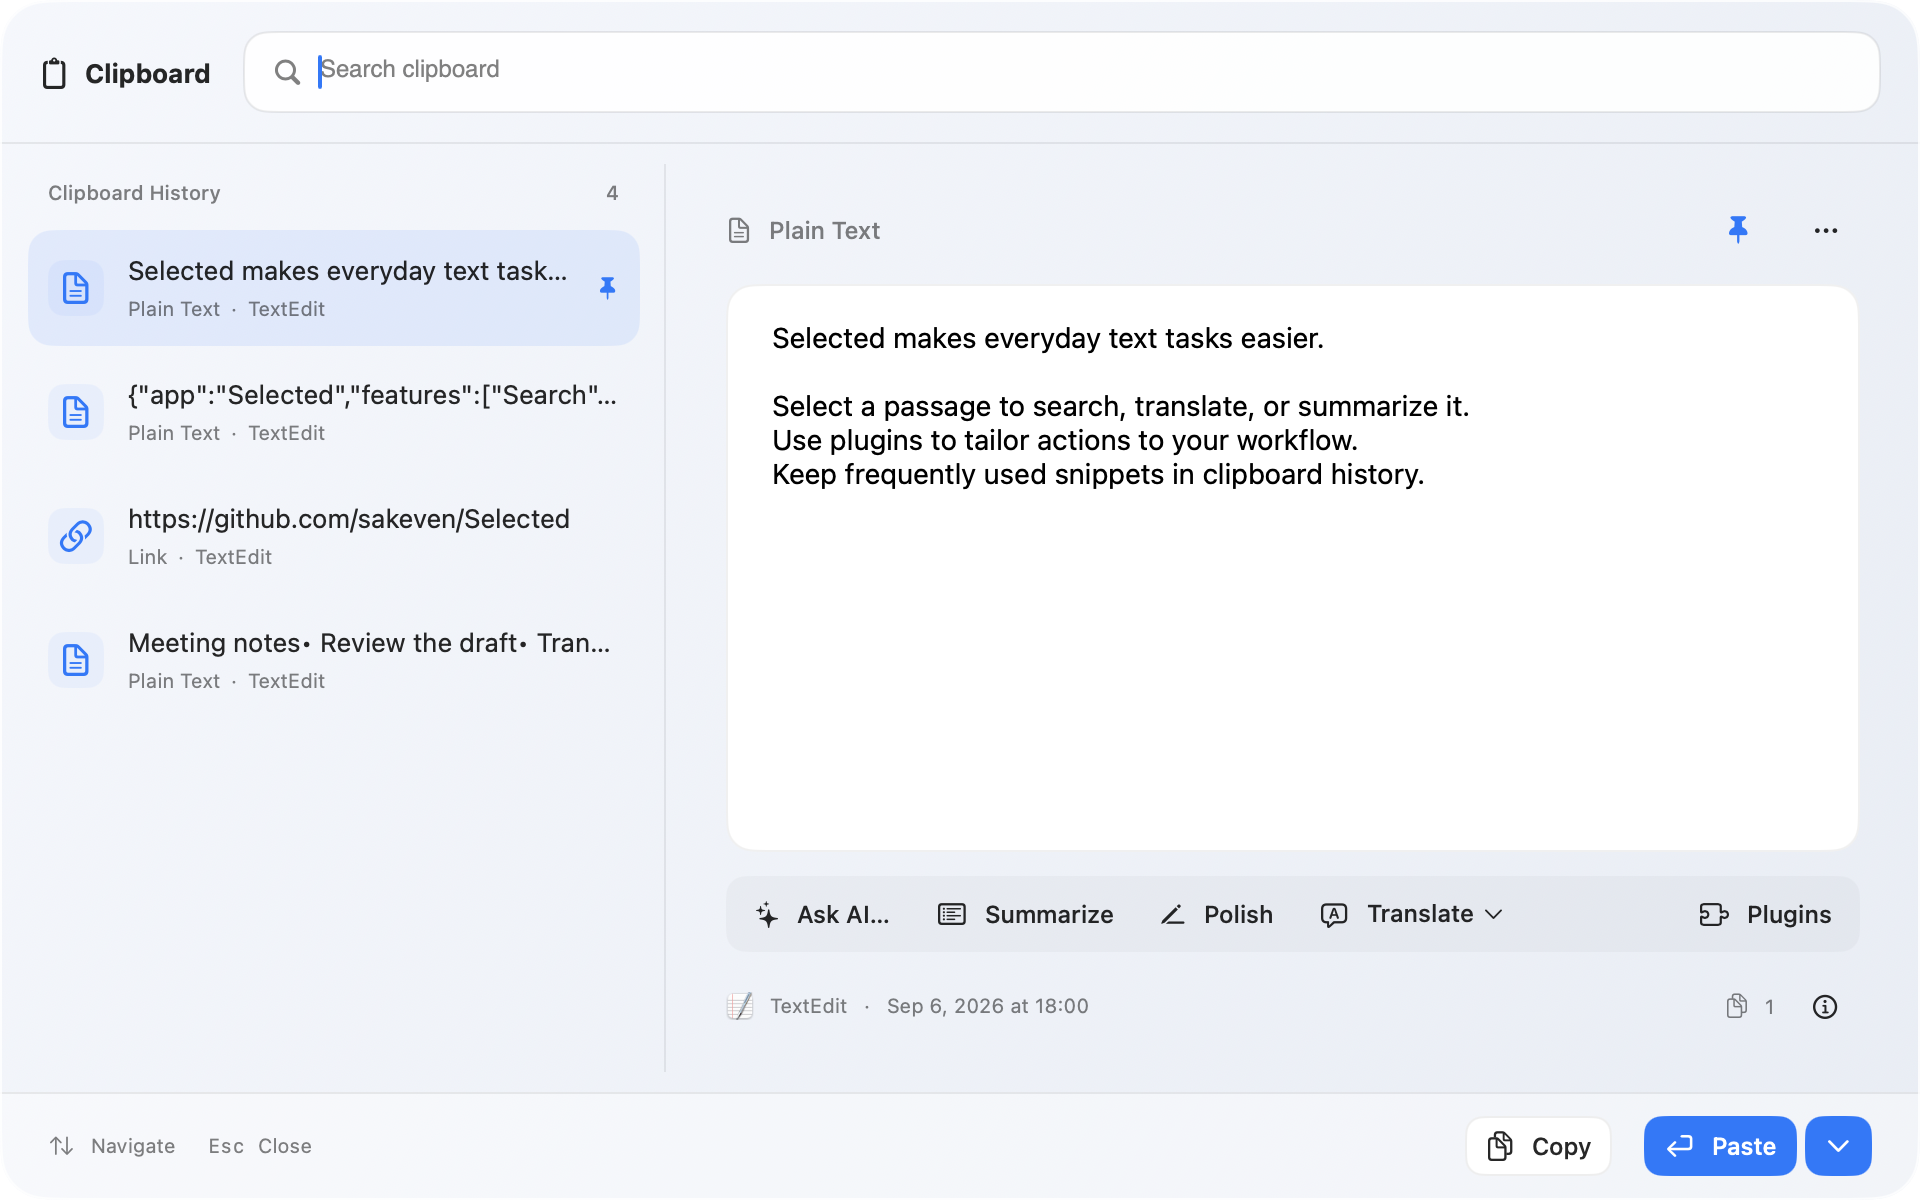
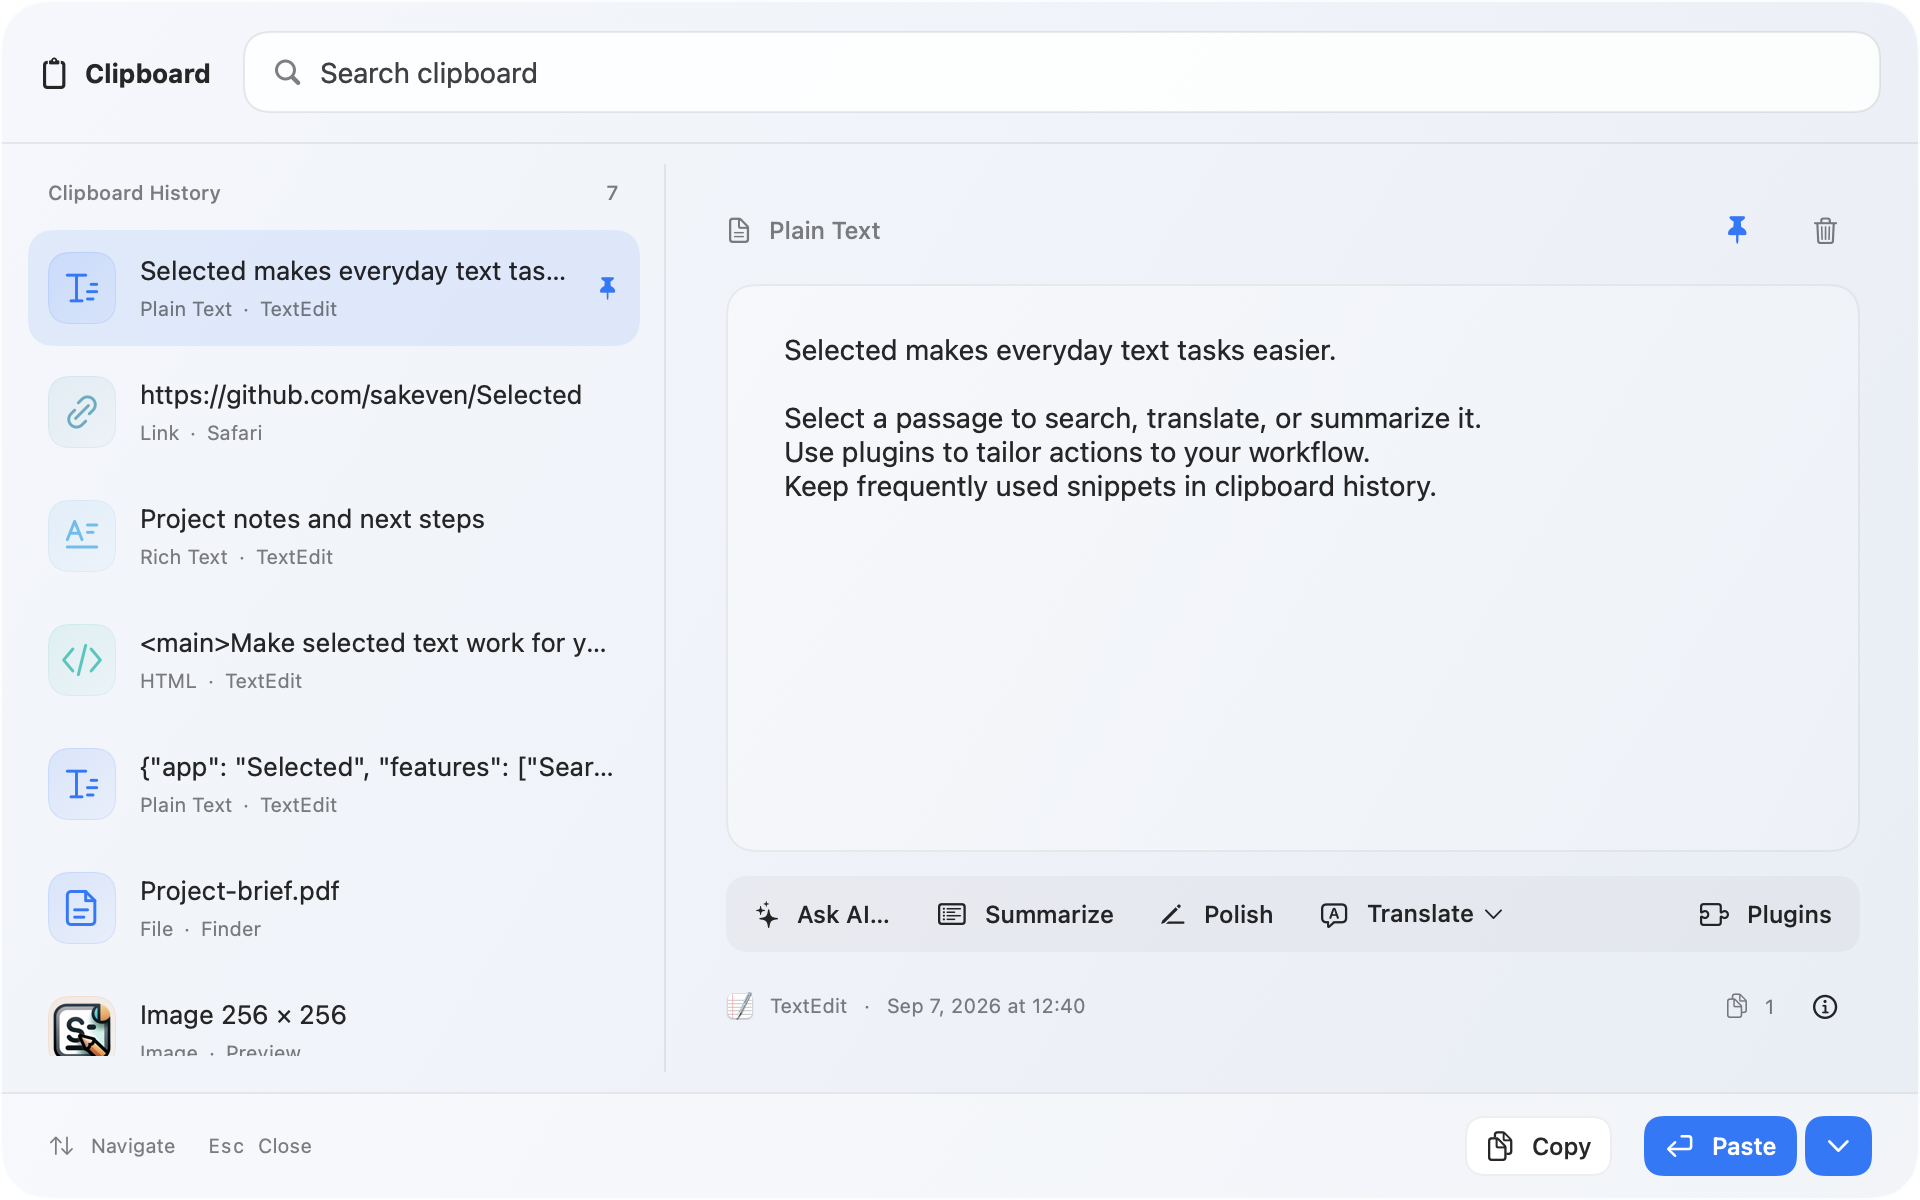
Polish clipboard previews and simplify actions

diff --git a/Selected/View/ClipView/ClipView.swift b/Selected/View/ClipView/ClipView.swift
@@ -64,9 +64,9 @@ private enum ClipDisplayKind {
         case .color: return .green
         case .file: return .blue
         case .image: return .orange
-        case .link: return .blue
+        case .link: return .teal
         case .text: return .blue
-        case .richText: return .purple
+        case .richText: return .cyan
         case .html: return .mint
         case .unknown: return .gray
         }
@@ -82,6 +82,18 @@ private enum ClipDisplayKind {
         case .richText: return "doc.richtext"
         case .html: return "circle.dashed.rectangle"
         case .unknown: return "doc"
+        }
+    }
+
+    var imageName: String {
+        switch self {
+        case .color: return "ClipboardColor"
+        case .file, .unknown: return "ClipboardFile"
+        case .image: return "ClipboardImage"
+        case .link: return "ClipboardLink"
+        case .text: return "ClipboardText"
+        case .richText: return "ClipboardRichText"
+        case .html: return "ClipboardHTML"
         }
     }
 }
@@ -109,8 +121,14 @@ private extension ColorScheme {
         self == .dark ? Color.white.opacity(0.035) : Color.white.opacity(0.7)
     }
 
-    var clipPreviewFill: Color {
-        Color(nsColor: .textBackgroundColor)
+    var clipPreviewFill: LinearGradient {
+        LinearGradient(
+            colors: self == .dark
+                ? [Color.white.opacity(0.055), Color.white.opacity(0.025)]
+                : [Color.white.opacity(0.36), Color.white.opacity(0.16)],
+            startPoint: .topLeading,
+            endPoint: .bottomTrailing
+        )
     }
 
     var clipSelectedFill: Color {
@@ -446,9 +464,16 @@ private struct ClipRowView: View {
 
     var body: some View {
         HStack(spacing: 12) {
-            RoundedRectangle(cornerRadius: 8)
-                .fill(clip.displayKind.tint.opacity(0.06))
-                .frame(width: 28, height: 28)
+            RoundedRectangle(cornerRadius: 10)
+                .fill(LinearGradient(
+                    colors: [
+                        clip.displayKind.tint.opacity(colorScheme == .dark ? 0.25 : 0.13),
+                        clip.displayKind.tint.opacity(colorScheme == .dark ? 0.12 : 0.05)
+                    ],
+                    startPoint: .topLeading,
+                    endPoint: .bottomTrailing
+                ))
+                .frame(width: 34, height: 36)
                 .overlay {
                     if clip.displayKind == .image,
                        let imageData = clip.primaryItem?.data,
@@ -456,15 +481,19 @@ private struct ClipRowView: View {
                         Image(nsImage: image)
                             .resizable()
                             .scaledToFill()
-                            .frame(width: 28, height: 28)
-                            .clipShape(RoundedRectangle(cornerRadius: 8))
+                            .frame(width: 34, height: 36)
+                            .clipShape(.rect(cornerRadius: 10))
                     } else if clip.displayKind == .color, let color = clip.colorValue {
-                        RoundedRectangle(cornerRadius: 8)
+                        RoundedRectangle(cornerRadius: 7)
                             .fill(Color(nsColor: color))
                             .padding(3)
                     } else {
                         ClipKindIcon(kind: clip.displayKind)
                     }
+                }
+                .overlay {
+                    RoundedRectangle(cornerRadius: 10)
+                        .strokeBorder(clip.displayKind.tint.opacity(0.12), lineWidth: 0.5)
                 }
                 .accessibilityHidden(true)
 
@@ -508,18 +537,16 @@ private struct ClipRowView: View {
 }
 
 private struct ClipKindIcon: View {
+    @Environment(\.colorScheme) private var colorScheme
     let kind: ClipDisplayKind
 
     var body: some View {
-        if kind == .color {
-            Circle()
-                .fill(kind.tint)
-                .frame(width: 12, height: 12)
-        } else {
-            Image(systemName: kind.symbolName)
-                .font(.system(size: 15, weight: .semibold))
-                .foregroundStyle(kind.tint)
-        }
+        Image(kind.imageName)
+            .resizable()
+            .scaledToFit()
+            .frame(width: 22, height: 22)
+            .foregroundStyle(kind.tint)
+            .brightness(colorScheme == .dark ? 0.16 : 0)
     }
 }
 
@@ -548,14 +575,11 @@ struct ClipDataView: View {
                 }
                 .help(data.isPinned ? String(localized: "clip.unpin") : String(localized: "clip.pin"))
 
-                Menu {
-                    ClipActionsMenu(data: data, onTogglePin: onTogglePin, onDelete: onDelete, onAIRequest: onAIRequest)
-                } label: {
-                    Label("More", systemImage: "ellipsis")
+                Button(role: .destructive, action: onDelete) {
+                    Label("Delete", systemImage: "trash")
+                        .foregroundStyle(.secondary)
                 }
-                .menuStyle(.button)
-                .menuIndicator(.hidden)
-                .help("More")
+                .help("Delete")
             }
             .labelStyle(.iconOnly)
             .buttonStyle(SettingsButtonStyle(emphasis: .quiet))
@@ -563,7 +587,7 @@ struct ClipDataView: View {
 
             ClipPreviewStage(data: data)
                 .id(data.MD5())
-                .padding(18)
+                .padding(24)
                 .frame(maxWidth: .infinity, maxHeight: .infinity)
                 .background(colorScheme.clipPreviewFill, in: RoundedRectangle(cornerRadius: 14))
                 .overlay {
@@ -842,42 +866,55 @@ private struct ClipImagePreview: View {
 }
 
 private struct ClipLinkPreview: View {
-    @Environment(\.colorScheme) private var colorScheme
     @ObservedObject var data: ClipHistoryData
 
     var body: some View {
-        VStack(alignment: .leading, spacing: 10) {
-            Text(data.detailTitle)
-                .font(.title2.weight(.semibold))
-                .foregroundStyle(colorScheme.clipPrimaryText)
-                .lineLimit(2)
-
-            if let previewText = data.cleanedPreviewText,
-               previewText != data.displayURLString {
-                Text(previewText)
-                    .font(.body)
-                    .foregroundStyle(colorScheme.clipPrimaryText.opacity(0.9))
-                    .lineLimit(4)
-            }
-
-            Spacer(minLength: 0)
-
+        VStack(alignment: .leading, spacing: 18) {
             if let urlString = data.displayURLString,
                let url = URL(string: urlString),
                isValidHttpUrl(urlString) {
-                Link(destination: url) {
-                    Text(urlString)
-                        .font(.callout)
-                        .foregroundStyle(colorScheme.clipSecondaryText)
-                        .lineLimit(1)
+                HStack(spacing: 12) {
+                    Image(systemName: "globe")
+                        .font(.title2)
+                        .foregroundStyle(.teal)
+                        .frame(width: 44, height: 44)
+                        .background(.teal.opacity(0.1), in: .rect(cornerRadius: 12))
+                        .accessibilityHidden(true)
+
+                    Text(url.host() ?? data.detailTitle)
+                        .font(.title2.weight(.semibold))
+                        .foregroundStyle(.primary)
+                        .lineLimit(2)
+                        .textSelection(.enabled)
                 }
-            } else if let urlString = data.displayURLString {
+
                 Text(urlString)
                     .font(.callout)
-                    .foregroundStyle(colorScheme.clipSecondaryText)
-                    .lineLimit(1)
+                    .foregroundStyle(.secondary)
+                    .lineLimit(4)
+                    .textSelection(.enabled)
+
+                if let previewText = data.cleanedPreviewText,
+                   previewText != urlString {
+                    Text(previewText)
+                        .font(.body)
+                        .foregroundStyle(.primary)
+                        .lineLimit(4)
+                }
+
+                Link(destination: url) {
+                    Label("clip.link.open", systemImage: "arrow.up.right")
+                }
+                .buttonStyle(SettingsButtonStyle(emphasis: .primary))
+                .help(urlString)
+            } else {
+                Text(data.displayURLString ?? data.detailTitle)
+                    .font(.body)
+                    .foregroundStyle(.primary)
                     .textSelection(.enabled)
             }
+
+            Spacer(minLength: 0)
         }
         .frame(maxWidth: .infinity, maxHeight: .infinity, alignment: .topLeading)
     }

diff --git a/Selected/View/Base/TextView.swift b/Selected/View/Base/TextView.swift
@@ -30,6 +30,7 @@ struct TextView: NSViewRepresentable {
         textView.translatesAutoresizingMaskIntoConstraints = true
         textView.string = text
         textView.font = font
+        textView.textColor = .labelColor
         
         return scrollView
     }
@@ -40,5 +41,6 @@ struct TextView: NSViewRepresentable {
             textView.string = text
         }
         textView.font = font
+        textView.textColor = .labelColor
     }
 }

diff --git a/README.md b/README.md
@@ -111,14 +111,17 @@ Clipboard history is **off by default**. Open **Settings → Clipboard**, enable
 After enabling history, copy content normally, then press **⌥Space** to open it:
 
 - Search saved content and select an item to preview its text, link, image, or file. Use the arrow keys to navigate the list.
+- For links, choose **Open in Browser** in the preview to open the address in your default browser.
 - Use **Copy** to restore an item to the clipboard, or **Paste** to insert it into the original app. Open the arrow next to **Paste** for **Paste plain text**, which removes formatting when text is available.
 - Pin frequently used items with the pin button above the preview. Pinned items are kept when older history is cleaned up.
 - Use **Prettify JSON** when the selected text is valid JSON.
 - Use the toolbar below the preview for AI actions and **Plugins**. Available AI actions include summarizing, explaining, polishing, extracting text, and translating, depending on the content.
-- Open **…** above the preview or right-click an item for more actions, including deletion. The information button beside the item's source and date shows its full metadata.
+- Use the trash button above the preview to delete an item, or right-click an item for the full action menu. The information button beside the item's source and date shows its full metadata.
 - Press **Esc** to dismiss the panel.
 
-<img src="DocImages/Clipboard.png" alt="Clipboard history preview with fictional snippets, a pinned text item, and its content preview" width="960" />
+<img src="DocImages/Clipboard.png" alt="Clipboard history with colored type icons, a text preview, and pin and delete buttons" width="960" />
+
+<img src="DocImages/Clipboard-Link.png" alt="Clipboard link preview showing the domain, full address, and Open in Browser button" width="960" />
 
 ## Custom extensions
 
